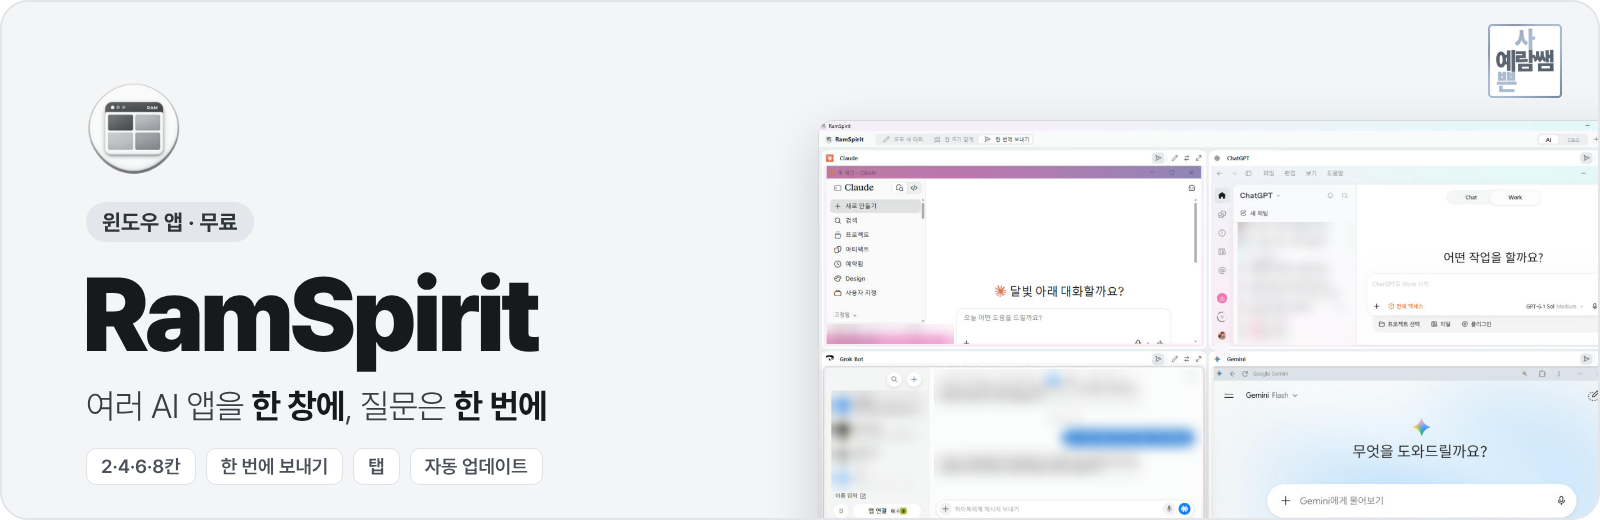
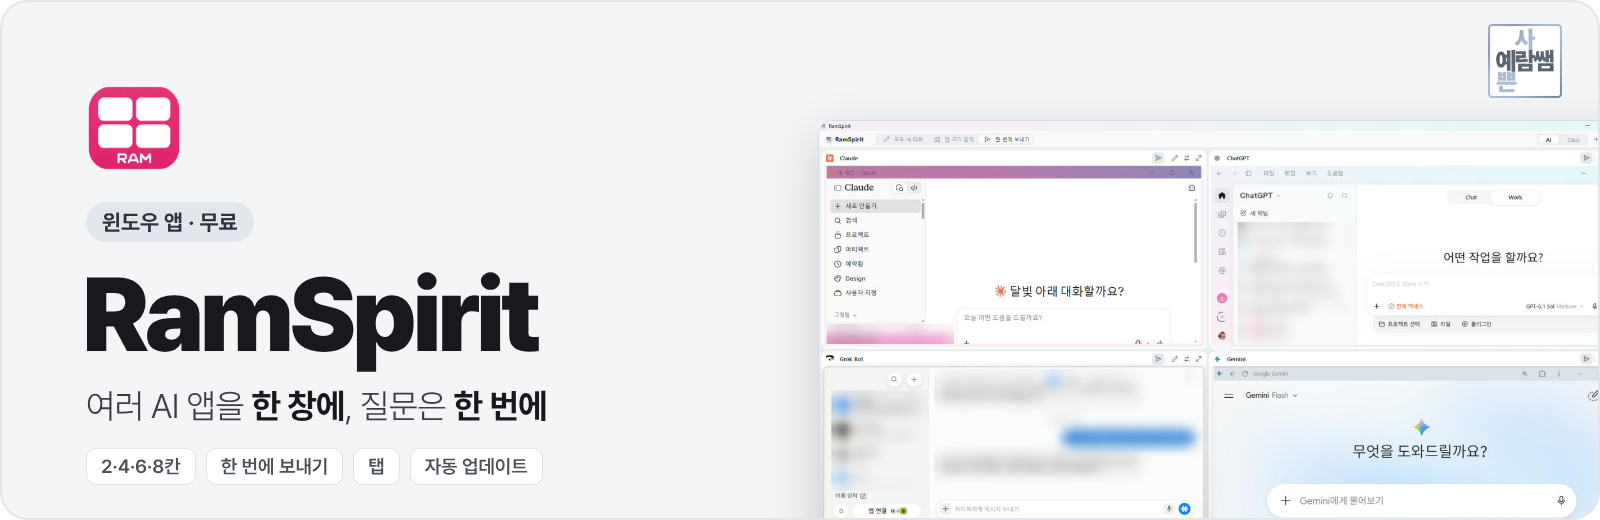
README: 새 아이콘 배너, 앱 아이콘 고르기 소개
Claude-Session: https://claude.ai/code/session_013SpSRxSx9Bpp9QkCXQH5Kb

Changed region(s): [[0.0312, 0.1538, 0.125, 0.3385]]

diff --git a/README.md b/README.md
@@ -78,6 +78,12 @@
 
 <img src="docs/img/tab-menu.png" alt="탭 오른쪽 클릭 메뉴" width="45%">
 
+### 앱 아이콘 고르기
+
+설정 → 화면 → **앱 아이콘**에서 7가지 중 마음에 드는 아이콘을 고를 수 있어요. 창 · 작업 표시줄 · 알림 영역 · 바탕화면 바로가기 아이콘이 함께 바뀌어요.
+
+<img src="docs/img/icons.png" alt="고를 수 있는 앱 아이콘 7가지" width="100%">
+
 ### 켤 때 자동으로 칸에 넣기
 
 켜면 칸마다 정해 둔 앱을 찾아서 넣어요. 앱이 칸에 들어가는 동안에는 로딩 화면이 보여요.
@@ -140,7 +146,7 @@
 | 화면 | 보내기 |
 |---|---|
 | <img src="docs/img/settings-screen.png" alt="설정 — 화면"> | <img src="docs/img/settings-send.png" alt="설정 — 보내기"> |
-| 테마 색 5가지 · 항상 위에 두기 · 아래 입력창 열어 두기 | Ctrl+Enter로 보내기 · 켤 때 모든 칸을 새 대화로 |
+| 테마 색 5가지 · 항상 위에 두기 · 아래 입력창 열어 두기 · 앱 아이콘 7가지 | Ctrl+Enter로 보내기 · 켤 때 모든 칸을 새 대화로 |
 | **시작과 닫기** | **정보** |
 | <img src="docs/img/settings-startup.png" alt="설정 — 시작과 닫기"> | <img src="docs/img/settings-about.png" alt="설정 — 정보"> |
 | 윈도우를 켜면 RamSpirit도 켜기 · 닫을 때 칸 안의 앱도 같이 닫기 | 지금 버전 · 업데이트 확인 · 설정 폴더 · 다운로드 페이지 |
